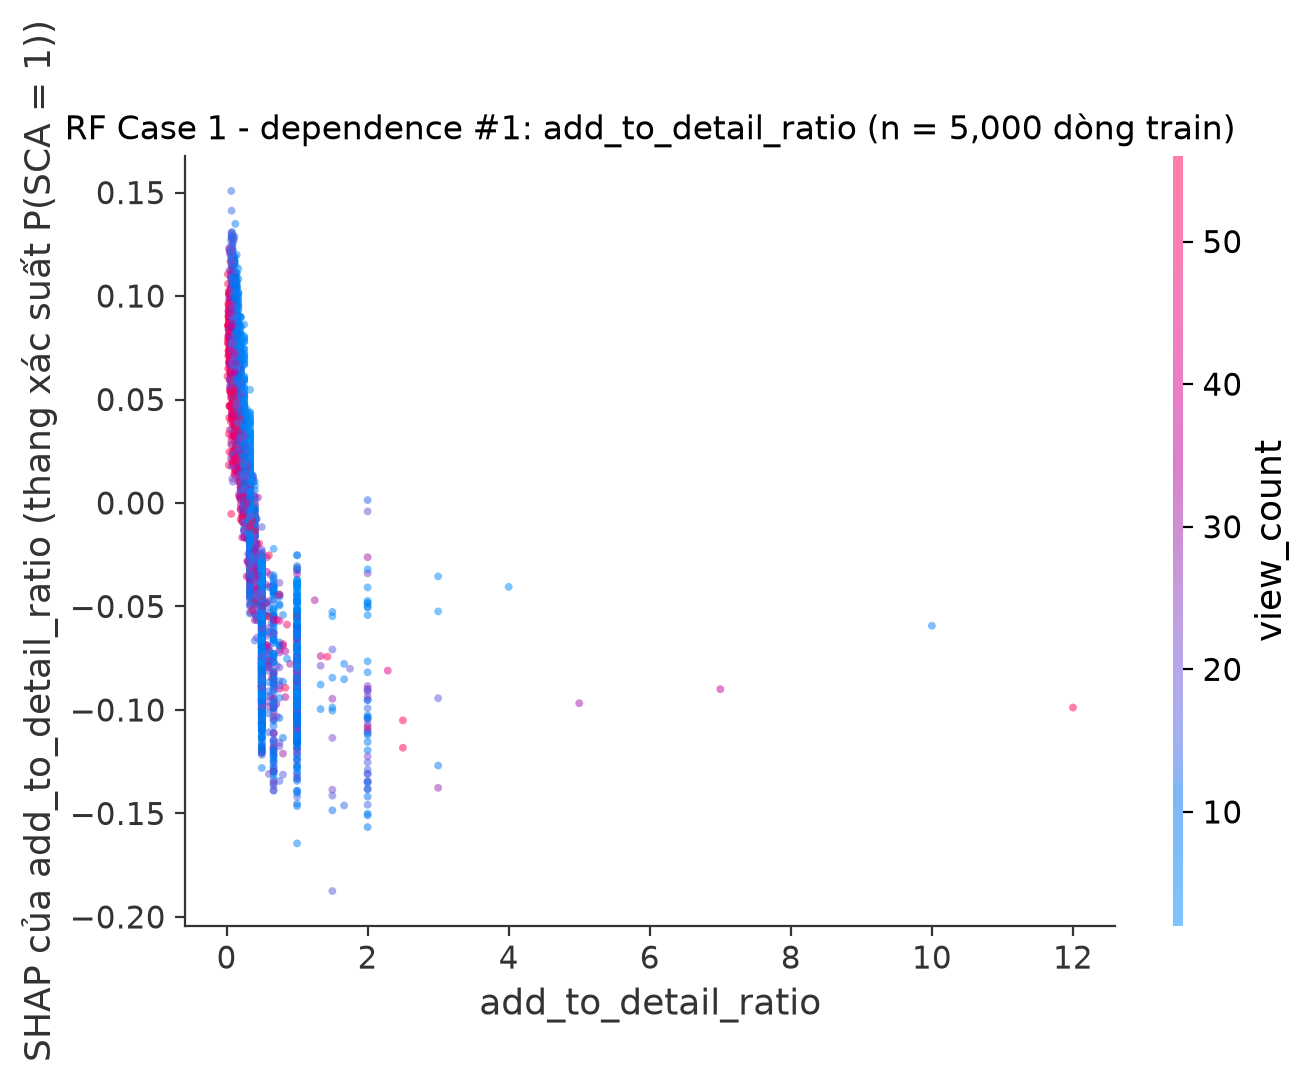
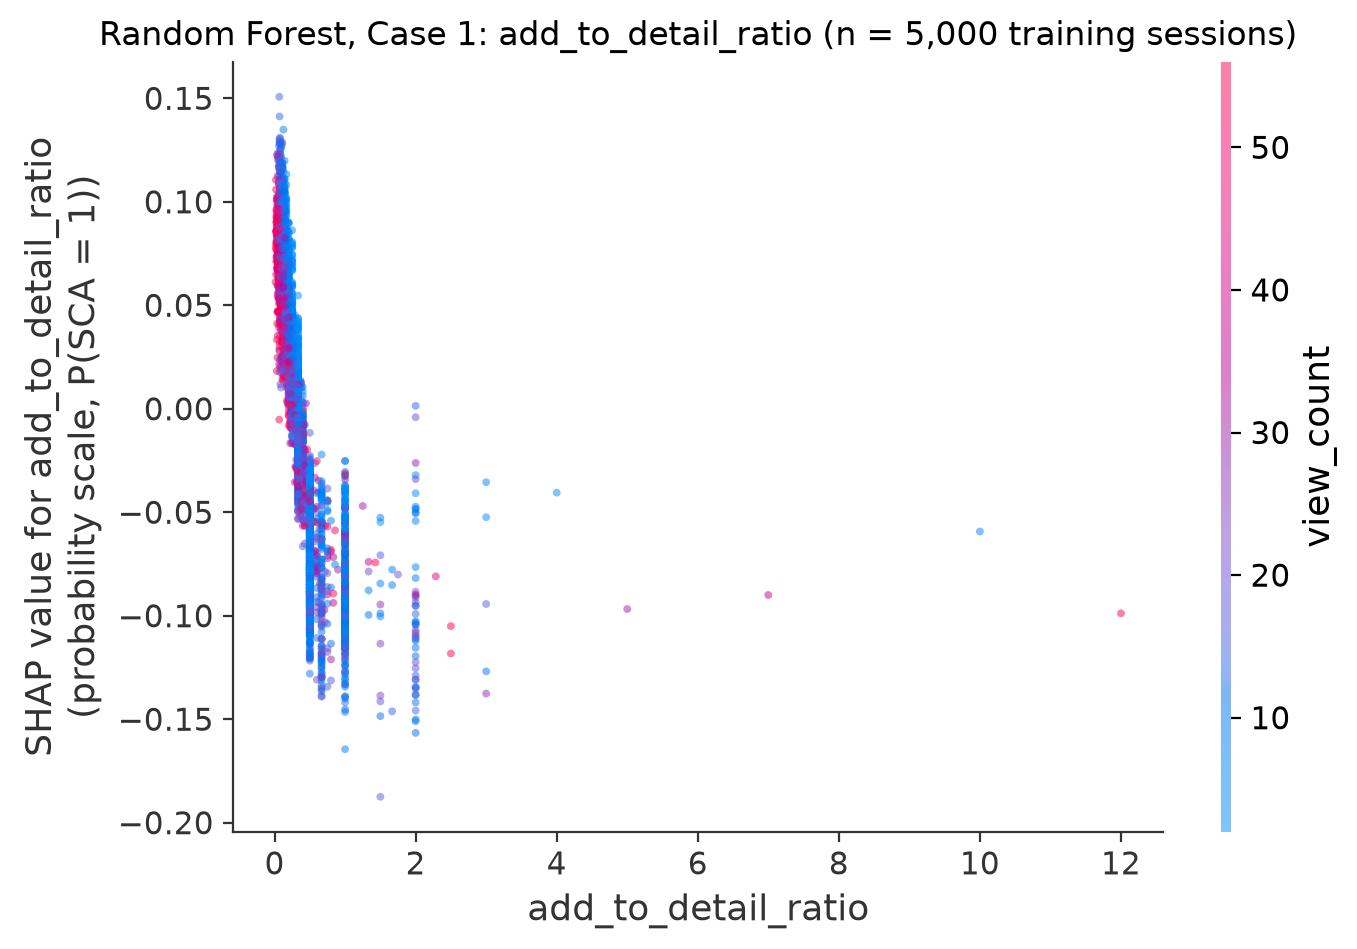
fix(rq3): English labels on RF Case 1 dependence plots (Fig 5.1, 5.2)

Changed region(s): [[0.0, 0.0, 1.0, 0.8862], [0.0, 0.8251, 0.8556, 0.9779], [0.0, 0.8862, 0.0611, 0.9779]]

diff --git a/notebooks/rq3_shap_vs_ols.py b/notebooks/rq3_shap_vs_ols.py
@@ -278,8 +278,8 @@ def step_plots():
     for r, j in enumerate(order, 1):
         f = C1[j]
         shap.dependence_plot(f, sv, Xs, interaction_index="auto", dot_size=8, alpha=0.5, show=False)
-        plt.ylabel(f"SHAP của {f} (thang xác suất P(SCA = 1))")
-        plt.title(f"RF Case 1 - dependence #{r}: {f} (n = {N:,} dòng train)")
+        plt.ylabel(f"SHAP value for {f}\n(probability scale, P(SCA = 1))")
+        plt.title(f"Random Forest, Case 1: {f} (n = {N:,} training sessions)")
         plt.gcf().savefig(FIG / f"case1_rf_ngoc_shap_dependence_{r:02d}_{f}.png", dpi=200, bbox_inches="tight")
         plt.close("all")
         print(f"{r:02d} {f}")
